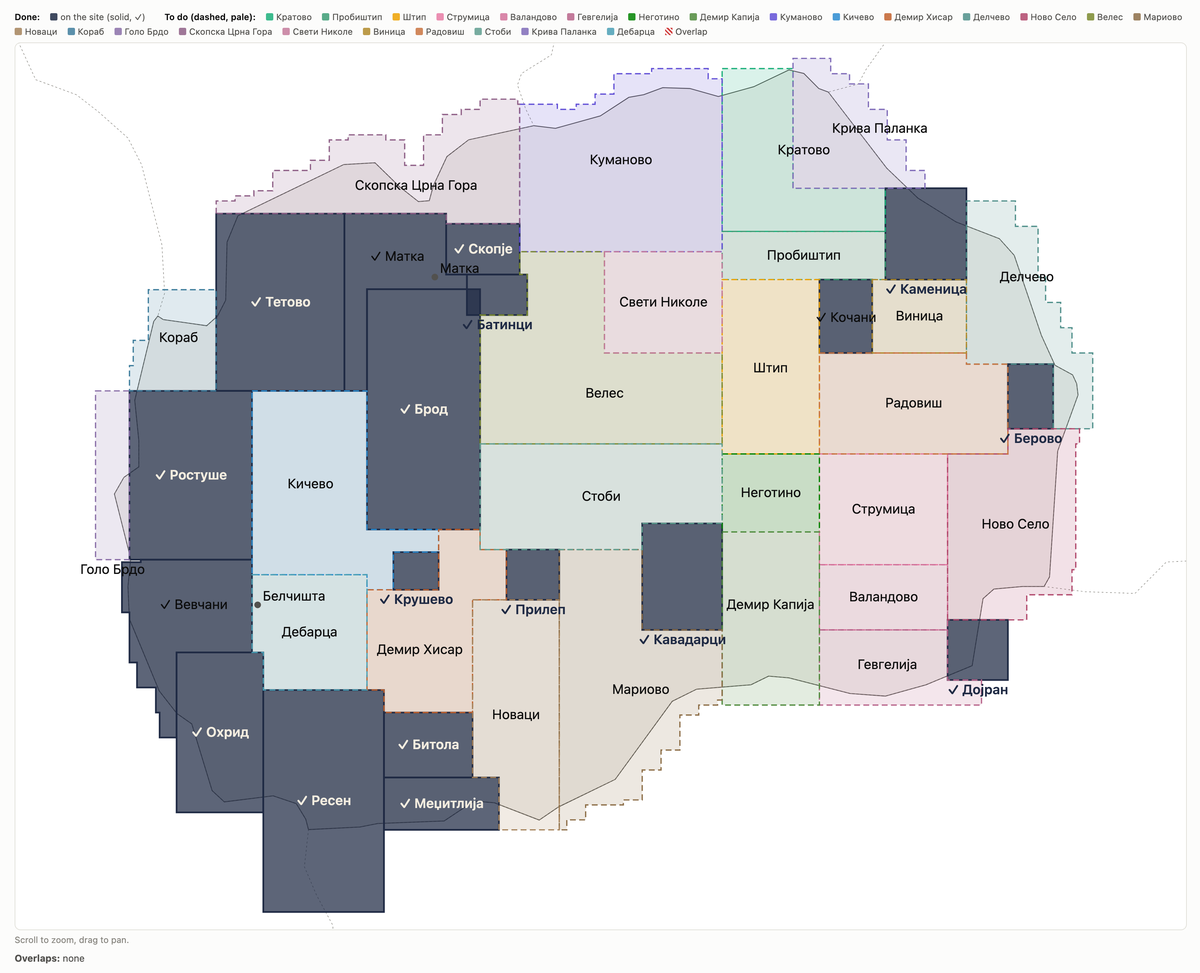
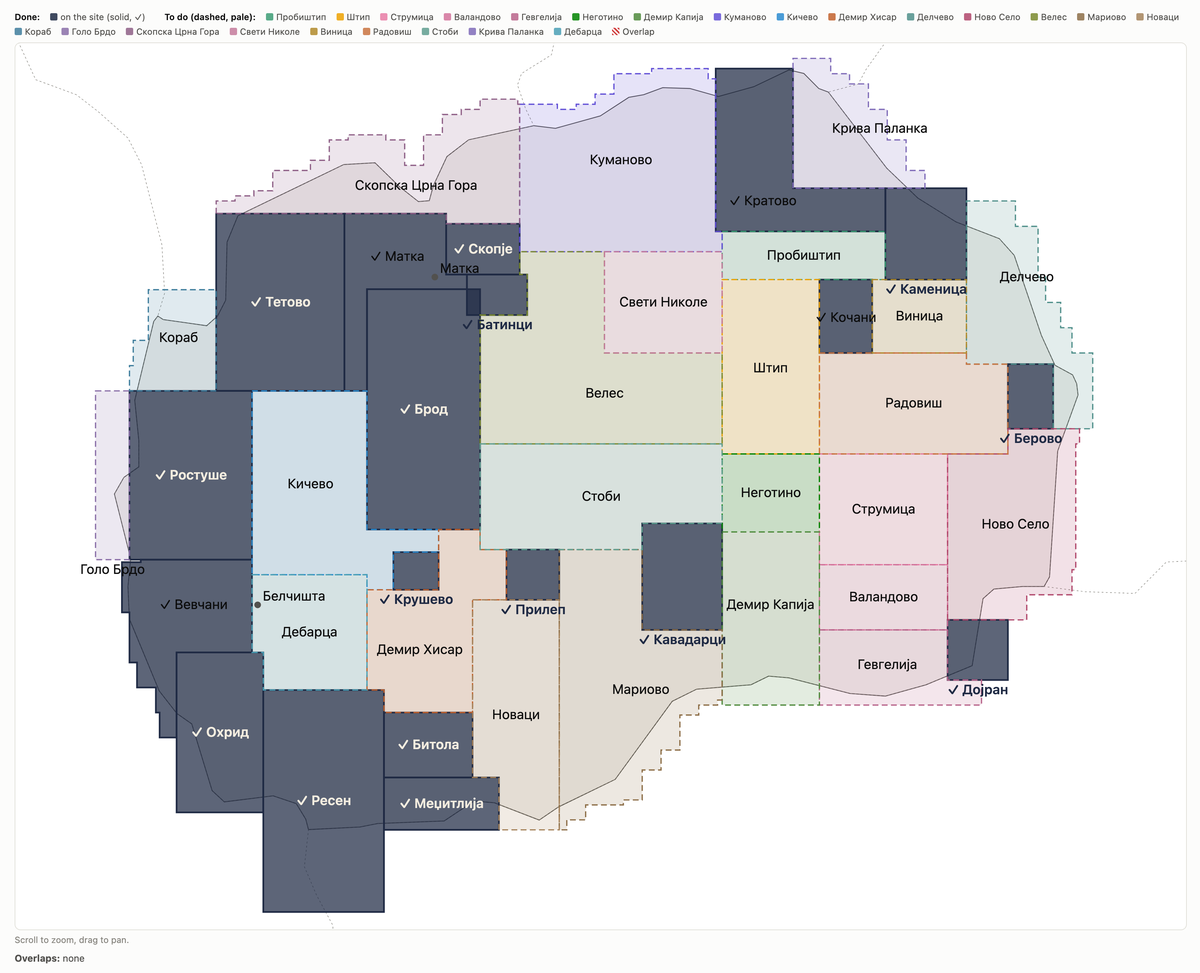
Docs: Кратово built (NOTES item 46, TOWNS_TODO 2 and the build order, CLAUDE.md, README, the plan map)

diff --git a/CLAUDE.md b/CLAUDE.md
@@ -42,7 +42,7 @@ npm run country      # the whole country at 100 m → public/country.png/.json (
 | File | Role |
 |---|---|
 | `main.ts` | App shell: renderer, controls, loading (staged build + progress card), city switching (`loadCity` / `unloadWorld` / `switchCity`), views, time of day, flight/race wiring, popups, help, gamepad, adaptive quality |
-| `cities.ts` | The cities (Skopje, Kavadarci, Bitola, Ohrid, Rostuše, Prilep, Kruševo, Makedonska Kamenica, Dojran, Batinci, Berovo, Tetovo, Makedonski Brod, Resen, Матка, Вевчани, Кочани, Меџитлија) and what differs per city: data files, camera views, district and landmark labels, race route, walking info spots, paragliders, weather / refill labels; `?city=` in the address |
+| `cities.ts` | The cities (Skopje, Kavadarci, Bitola, Ohrid, Rostuše, Prilep, Kruševo, Makedonska Kamenica, Dojran, Batinci, Berovo, Tetovo, Makedonski Brod, Resen, Матка, Вевчани, Кочани, Меџитлија, Кратово) and what differs per city: data files, camera views, district and landmark labels, race route, walking info spots, paragliders, weather / refill labels; `?city=` in the address |
 | `city.ts` | `computeCitySteps` (generator; OSM+terrain → typed arrays per 1 km chunk) and `assembleCity` (meshes, materials, 3-level LOD, far-ground texture bake). Facade shader (windows, shutters, awnings, cornices, night glow), roof tiles, parapets, trees, parked cars, sheds; Kavadarci's vineyards and Bitola's fields, Кочани's rice paddies (`rice`) (`farmMask`, `VINE_GROUND`: farmland marked by one terrain colour, plots painted by the ground shader; `vineShare` per city: the share of plots that are vineyards) |
 | `terrain.ts` | Heightfield with exact mesh-matching interpolation; chunk/low-res meshes; triangle clipping for draping |
 | `post.ts` | `InkRenderer`: colour + normal/depth passes (one pass in the low tier or with smooth edges off: normals as a second attachment) → composite (ink lines, pairwise AO, cloud shadows, grade, haze) → temporal accumulation of jittered frames (supersampled AA) → output |
@@ -76,6 +76,7 @@ npm run country      # the whole country at 100 m → public/country.png/.json (
 | `vevcani.ts` | Вевчани (after photos): Св. Никола (basilica, bell tower, annex), wooden footbridges below the springs |
 | `kocani.ts` | Кочани (after photos): the two Ottoman towers (Средновековна кула with its balcony and stair, the ruined Саат-кула with the clock's brick drum), Споменик на слободата (curved wall, drawn mosaics on a `CanvasTexture`, pylons) |
 | `medzitlija.ts` | Меџитлија (after photos and the aerial image): the village mosque (copper domes, porch, minaret), the border crossing's two canopies (Macedonian and Greek side, `modelRects`), Велушки манастир (church Св. Ѓорѓи with its bell tower, the konak with the gate and the court gallery) |
+| `kratovo.ts` | Кратово (after descriptions on mk Wikipedia): the six medieval towers on their OSM outlines (stone, quoins, slab hip roofs; the Саат-кула's чардак), the stone bridges on OSM's `man_made=bridge` outlines (one arch, humped deck, parapets), the earth pyramids of Куклица (seeded inside the site's outline) |
 | `dojran.ts` | Dojran (after photos): the clock tower, Св. Илија (a basilica), a мандра (reed fishing enclosure, hut on stilts, walkway to the beach) |
 | `bitola.ts` | Bitola (after photos): Саат-кула, Ајдар-кади џамија, Безистен, Св. Димитриј and its bell tower, Хераклеа's theatre and Great Basilica with its mosaic floors (painted canvases), built on their OSM outlines (`models` in `PREP`, `landmarks.models` in the data; the generic buildings left out); walking collision |
 | `river.ts` | Kavadarci, the Луда Мара (after photos): the stone-lined channel through the town between two promenades, cut exactly out of the terrain and draped ground (`cut`), its water, banks and promenades emitted into the draped ground; copings, railing, arched footbridges, road-bridge parapets, cascades, steps, benches, lamps, promenade trees; walking height and collision |
@@ -86,7 +87,8 @@ npm run country      # the whole country at 100 m → public/country.png/.json (
 | `i18n-towns2.ts` | UI texts of Tetovo, Makedonski Brod and Resen, spread into `STR` after `TOWNS` |
 | `i18n-towns3.ts` | UI texts of Матка and Вевчани, spread into `STR` after `TOWNS2` |
 | `i18n-towns4.ts` | UI texts of Кочани and Меџитлија, spread into `STR` after `TOWNS3` |
-| `i18n-country.ts` | UI texts of the country view, spread into `STR` after `TOWNS4` |
+| `i18n-towns5.ts` | UI texts of Кратово, spread into `STR` after `TOWNS4` |
+| `i18n-country.ts` | UI texts of the country view, spread into `STR` after `TOWNS5` |
 | `country.ts` | Country view (Macedonia, first in the city menu): all of Macedonia at 100 m from `public/country.png` (heights, land cover, border), its own scene / camera / controls drawn through the same ink renderer (`renderCountry()` in `main.ts`), zones as a canvas overlay, hover, picking by marching the height grid, badges that open a city; the data is loaded once and kept for the visit (`loadCountry`, meant for the F-15 too) |
 | `countryground.ts` | The country's 100 m terrain around a city map while the F-15 flies: one CPU-built grid following the plane (fine near, ~0.7 km cells at 45 km), sunk below the map inside it, the map's own exaggeration; the flight and the rockets use its height beyond the map's edges. While it shows, the ink's normal pass is not clipped to the map (`ink.setClipping`) |
 | `hop.ts` | The F-15 from map to map: `mapAt` / `inMap` (the finished maps' outlines from `zones.ts`), `lookAhead` (the map the plane would enter along a heading), `createPrefetch` (raw files of up to 3 maps ahead, 80 MB; phones 1, 20 MB; one low-priority download at a time). `main.ts` predicts once a second, opens the edge where a map lies ahead (`flight.setEdgeOpen`), shows `→ Батинци ▓▓░░` and switches at the edge (`hop()`: fade, small loader, `switchCity`, the flight carried over by lat / lon) |
@@ -111,7 +113,7 @@ controls, ink, city, flight); `setView('center'|'kale'|'park'|'vodno'|'overview'
   The city stays built underneath, so Skopje is pixel-identical after closing it (checked).
 - The badge at the top left (`091 Скопје ▾`) is the city picker (the tab icon follows: `icon` in `CITIES`,
   `public/favicon-<id>.svg`). The LinkedIn button at the top right names the city's developer (one `.me-main`
-  per city, `data-city`) and shows only on the map itself, not while flying, driving or walking.
+  per city, `data-city`; the ▼ menu lists the three developers: Бојан 091, Ристе 043, Бранко 031) and shows only on the map itself, not while flying, driving or walking.
   The round `?` right after the badge opens the help
   (shared by every city; per-city paragraphs carry `data-city="…"`, hidden by the `city-<id>` body class).
 - Cities: 091 Скопје, 043 Кавадарци (`?city=kavadarci`), 097 Битола (`?city=bitola`, v2.10.0), 096 Охрид
@@ -126,7 +128,8 @@ controls, ink, city, flight); `setView('center'|'kale'|'park'|'vodno'|'overview'
   cut out of it), 0903 Кочани (`?city=kocani`, branch `city-kocani`, not yet released: Кочанско Поле's rice paddies, `rice` in
   `CITIES` → `RICE_GROUND` in `city.ts`, compiled only into a city with rice), 047 Меџитлија (`?city=medzitlija`, branch
   `city-medzitlija`, not yet released: southern Пелагонија to the Greek border, widened east to 21.47 so that Меџитлија is on it;
-  Новаци's planned box cut there).
+  Новаци's planned box cut there), 031 Кратово (`?city=kratovo`, branch `city-kratovo`, not yet released, developer Бранко Славков:
+  an L, Крива Паланка's planned corner cut; widened west to 22.045 for the Камени Кукли, Куманово's planned outline moved there).
 - The F-15 (v26.0.0) flies from map to map: the next map downloaded ahead, switched at the edge while the jet flies on
   over the country's terrain (`src/hop.ts`, `src/countryground.ts`, `transit` in `main.ts`); every new finished map
   in `src/zones.ts` widens the flight. All of it: "F-15 and flying from map to map" in docs/NOTES.md.

diff --git a/README.md b/README.md
@@ -8,7 +8,7 @@ An illustrated, living 3D map of Skopje — from Gjorče Petrov to Gazi Baba and
 
 Илустрирана, жива 3Д мапа на Скопје, нацртана од отворените податоци на OpenStreetMap.
 
-More towns — **043 Кавадарци** (Kavadarci, the centre of the Tikveš wine region), **097 Битола** (Bitola, the city of consuls under Pelister) **096 Охрид** (Ohrid and Struga with the whole of Lake Ohrid) **098 Прилеп** (Prilep under Markovi Kuli) **048 Крушево** (Kruševo, the town of the Ilinden Uprising) **033 Македонска Каменица** (Makedonska Kamenica, the miners' town under Osogovo) **034 Дојран** (Dojran and the whole of Lake Dojran) **02 Батинци** (Batinci and its surroundings south of Skopje, to Marko's Monastery) **033 Берово** (Berovo, Pehčevo and the whole of Berovo Lake) **094 Тетово** (Tetovo, Gostivar and the Šar Mountains) **045 Македонски Брод** (Makedonski Brod, Lake Kozjak and the Treska) **047 Ресен** (Resen and the whole of Lake Prespa) **02 Матка** (the Matka Canyon and the land west of Skopje) **046 Вевчани** (Vevčani and Drimkol under Jablanica) **0903 Кочани** (Kočani and the rice fields of its plain) and **047 Меџитлија** (southern Pelagonia at the Greek border) — are chosen from the badge at the top left or opened directly with `?city=`: https://bbojan.github.io/091-skopje/?city=kavadarci, https://bbojan.github.io/091-skopje/?city=bitola, https://bbojan.github.io/091-skopje/?city=ohrid, https://bbojan.github.io/091-skopje/?city=rostuse, https://bbojan.github.io/091-skopje/?city=prilep, https://bbojan.github.io/091-skopje/?city=krusevo, https://bbojan.github.io/091-skopje/?city=kamenica, https://bbojan.github.io/091-skopje/?city=dojran, https://bbojan.github.io/091-skopje/?city=batinci, https://bbojan.github.io/091-skopje/?city=berovo, https://bbojan.github.io/091-skopje/?city=tetovo, https://bbojan.github.io/091-skopje/?city=brod, https://bbojan.github.io/091-skopje/?city=resen, https://bbojan.github.io/091-skopje/?city=matka, https://bbojan.github.io/091-skopje/?city=vevcani, https://bbojan.github.io/091-skopje/?city=kocani, https://bbojan.github.io/091-skopje/?city=medzitlija
+More towns — **043 Кавадарци** (Kavadarci, the centre of the Tikveš wine region), **097 Битола** (Bitola, the city of consuls under Pelister) **096 Охрид** (Ohrid and Struga with the whole of Lake Ohrid) **098 Прилеп** (Prilep under Markovi Kuli) **048 Крушево** (Kruševo, the town of the Ilinden Uprising) **033 Македонска Каменица** (Makedonska Kamenica, the miners' town under Osogovo) **034 Дојран** (Dojran and the whole of Lake Dojran) **02 Батинци** (Batinci and its surroundings south of Skopje, to Marko's Monastery) **033 Берово** (Berovo, Pehčevo and the whole of Berovo Lake) **094 Тетово** (Tetovo, Gostivar and the Šar Mountains) **045 Македонски Брод** (Makedonski Brod, Lake Kozjak and the Treska) **047 Ресен** (Resen and the whole of Lake Prespa) **02 Матка** (the Matka Canyon and the land west of Skopje) **046 Вевчани** (Vevčani and Drimkol under Jablanica) **0903 Кочани** (Kočani and the rice fields of its plain), **047 Меџитлија** (southern Pelagonia at the Greek border) and **031 Кратово** (Kratovo in its volcanic crater, with its towers and stone bridges) — are chosen from the badge at the top left or opened directly with `?city=`: https://bbojan.github.io/091-skopje/?city=kavadarci, https://bbojan.github.io/091-skopje/?city=bitola, https://bbojan.github.io/091-skopje/?city=ohrid, https://bbojan.github.io/091-skopje/?city=rostuse, https://bbojan.github.io/091-skopje/?city=prilep, https://bbojan.github.io/091-skopje/?city=krusevo, https://bbojan.github.io/091-skopje/?city=kamenica, https://bbojan.github.io/091-skopje/?city=dojran, https://bbojan.github.io/091-skopje/?city=batinci, https://bbojan.github.io/091-skopje/?city=berovo, https://bbojan.github.io/091-skopje/?city=tetovo, https://bbojan.github.io/091-skopje/?city=brod, https://bbojan.github.io/091-skopje/?city=resen, https://bbojan.github.io/091-skopje/?city=matka, https://bbojan.github.io/091-skopje/?city=vevcani, https://bbojan.github.io/091-skopje/?city=kocani, https://bbojan.github.io/091-skopje/?city=medzitlija, https://bbojan.github.io/091-skopje/?city=kratovo
 
 ## Features
 
@@ -105,6 +105,11 @@ More towns — **043 Кавадарци** (Kavadarci, the centre of the Tikveš 
 - Hand-built after photos and the aerial image: the mosque of Medžitlija, the canopies of the border crossing (both sides), the Velušina monastery (church, bell tower, konak)
 - Its own places, labels, race route (13 rings), walking info cards; firefighting refills from the fish ponds by Žabeni; no ЈСП buses
 
+**Kratovo** (`?city=kratovo`, built by Branko Slavkov)
+- Kratovo in the crater of an extinct volcano, the Kratovo river, Kneževo lake on the Zletovica, the stone dolls of Kuklica, the villages of Slavište with Rankovce and Petralica up to the Serbian border, on real terrain
+- Hand-built after descriptions: the six medieval towers (Simić's, the clock tower, Zlatkovič's, Krste's, Hadži-Kosta's, Emin-bey's), the stone bridges (Rada's, Grofčanski, Čaršijski, Jokširski and three more), the earth pyramids of Kuklica
+- Its own places, labels, race route (13 rings), walking info cards; firefighting refills from Kneževo lake; no ЈСП buses
+
 **Time, weather and seasons**
 - Day, sunset and night (lit windows, street lamps, headlights), drifting clouds, birds, paragliders over Vodno, flowing river
 - Weather: clear, rain (wet streets, puddles, umbrellas), snow, or snow only on Vodno
@@ -172,6 +177,7 @@ npm run download -- matka && npm run overture -- matka && npm run terrain -- mat
 npm run download -- vevcani && npm run overture -- vevcani && npm run terrain -- vevcani && npm run data -- vevcani
 npm run download -- kocani && npm run terrain -- kocani && npm run data -- kocani   # Overture adds nothing here
 npm run download -- medzitlija && npm run overture -- medzitlija && npm run terrain -- medzitlija && npm run data -- medzitlija
+npm run download -- kratovo && npm run terrain -- kratovo && npm run data -- kratovo   # Overture adds nothing here
                    # when Overpass is down: scripts/pbf2overpass.py writes data/<city>_raw.json from Geofabrik extracts
 ```
 

diff --git a/docs/NOTES.md b/docs/NOTES.md
@@ -697,6 +697,34 @@ day/night) and fun (airplane, ring race). Tagline: „Го добивме 091 С
    script's `frames()` and the 1.7 s waits replaced by pumped frames, `img.decode()` by `onload` (with timer frames at 1–2
    FPS the same code compared against itself differed on every pixel; pumped, it matches). Not checked: flying in from
    Ресен, phones, firefighting and the race, night and snow views, the walking cards one by one.
+46. **031 Кратово** (Nov 2026, branch `city-kratovo`, not yet released; built out of order, 16th in the build order; the
+   first map by the third developer, **Бранко Славков**, `linkedin.com/in/slavkovbranko`): the town in its volcanic crater and
+   its surroundings (docs/TOWNS_TODO.md, 2): box 42.04–42.36 N, 22.045–22.495 E (35.6 × 37.1 km, 20 m cells, 383–2076 m), an
+   L: Крива Паланка's planned corner (42.125–42.36 N, 22.25–22.495 E) is `cut`. **Widened west from 22.062 to 22.045** so
+   that the Камени Кукли (22.055) are on it; Куманово's planned outline moved with it. Overpass was at capacity all morning
+   (no tile in 15 minutes), so the raw file came from Geofabrik's Macedonia + Serbia extracts (`scripts/pbf2overpass.py`):
+   5,556 buildings, 2,961 roads before the cut (a count query never got through, so not cross-checked against Overpass).
+   **Overture adds nothing** here (0 outlines; 6,428 of its outlines are OSM's own), so no Overture credit. Scene: 2,630
+   buildings after the cut, 2.3 MB; the old town as an `old` box, no height zones (a `mid` zone over the centre made the old
+   town 6-storey blocks), `maxLevels: 5`, the three churches pinned low. Farmland painted on Славиште's plain (`vineyards: 200`,
+   `vineShare: 0.05`). Refilling over Кнежевско Езеро (69 ha). Models (`src/kratovo.ts`, after mk Wikipedia's descriptions,
+   no photos looked at): **the six towers** on OSM's outlines (narrowed to the published widths where Wikipedia gives them:
+   Симиќева 7.9 m and 22 m with its two chimneys, Златковичева 14.15 m, Крстева 16.1 m; Хаџикостова 14 m and Емин-бегова 13 m
+   guessed; the Саат-кула 15.5 m guessed, its чардак placed on the south side by guess), **seven stone bridges** on OSM's
+   `man_made=bridge` outlines (one arch, a humped deck kept ~4 m over the river since the 20 m terrain hardly cuts it,
+   parapets with copings; Нов Мост, the modern one, left out; Радин мост's towers not modelled), **the earth pyramids of
+   Куклица** (15 large up to 10 m, ~80 small up to 5 m with twins at the foot, seeded inside OSM's site outline, not at
+   their real places). Badge 031 (shared with Крива Паланка, the Badge codes table); tow banners „Кратово е спасено!“ /
+   „Поздрав од кратерот!“; snow label „Снег на Осогово“ (Каменица's). The developers' ▼ menu now lists three (031 Бранко
+   Славков), the LinkedIn button on this map names him, and the help footer credits him in all six languages (Slovene
+   „Izdelala“ → „Izdelali“ for three). Checked: typecheck, build (the files in `dist/`), the map loads with no console
+   errors, the views (towers, bridges, Радин мост, Камени Кукли, the square, the lake, the overview), switching Кратово →
+   Скопје → Кратово → Кочани → Кратово (textures 1377 → 1377, scene objects 21 → 21, geometries +2 per return: streamed
+   ground), the F-15 over the map (country vs map heights: mean 0, −8…+39 m on Осогово's slopes), Skopje pixel check (0 on
+   six views, 12–13 pixels on the three overviews: the gondola cabins), screenshots with `scripts/browser/shot-sink.ts`
+   (the pane gave no screenshot frames). Seen: white spikes of draped road along Кнежевско Езеро's steep shore (`waterPad`
+   on 20 m cells, as in Матка). Not checked: flying in from Каменица or Кочани, phones, firefighting and the race, night and
+   snow views, the walking cards one by one, the towers and bridges against photos.
 
 ## Country view (Nov 2026)
 
@@ -969,6 +997,7 @@ All saved settings are `localStorage` keys starting with `skopje.`, read once at
 | Best race time in Вевчани | `skopje.bestRace.vevcani` | none |
 | Best race time in Кочани | `skopje.bestRace.kocani` | none |
 | Best race time in Меџитлија | `skopje.bestRace.medzitlija` | none |
+| Best race time in Кратово | `skopje.bestRace.kratovo` | none |
 
 The camera is not in storage: it is in the address bar (`#@lat,lon,distance,tilt°,heading°` or
 a view name), so a reload or a shared link restores it; without a hash the map opens on Плоштад.

diff --git a/docs/TOWNS_TODO.md b/docs/TOWNS_TODO.md
@@ -4,7 +4,8 @@
 096 Охрид (with Струга), 098 Прилеп, 048 Крушево, 042 Ростуше (with Дебар and Маврово),
 033 Македонска Каменица (with Саса), 034 Дојран, 02 Батинци, 033 Берово (with Пехчево), 094 Тетово (with Гостивар),
 045 Македонски Брод, 047 Ресен, 02 Матка, 046 Вевчани. **Built, not yet released:** 0903 Кочани (branch `city-kocani`,
-2026-11-24), 047 Меџитлија (branch `city-medzitlija`, 2026-11-24). Details in the first table below.
+2026-11-24), 047 Меџитлија (branch `city-medzitlija`, 2026-11-24), 031 Кратово (branch `city-kratovo`, 2026-11-24, developer
+Бранко Славков). Details in the first table below.
 
 ![Map extents: done (solid, ✓) and to do (dashed)](towns-map.png)
 
@@ -19,7 +20,7 @@ opens through the dev server. With `npm run dev` running:
 "/Applications/Google Chrome.app/Contents/MacOS/Google Chrome" --headless=new --disable-gpu --hide-scrollbars --force-device-scale-factor=2 --window-size=1640,1330 --virtual-time-budget=8000 --screenshot=docs/towns-map.png http://localhost:5173/scripts/towns-map.html
 ```
 
-**To do: 25 new maps** (Кочани and Меџитлија built since), all edge to edge, no overlaps, the whole country covered. Largest first (km², official
+**To do: 24 new maps** (Кочани, Меџитлија and Кратово built since), all edge to edge, no overlaps, the whole country covered. Largest first (km², official
 towns on it):
 
 | Map | ~km² | Towns | | Map | ~km² | Towns |
@@ -37,7 +38,7 @@ towns on it):
 | Демир Капија | 820 | Демир Капија | | Голо Брдо* | 280 | — |
 | Демир Хисар | 810 | Демир Хисар | | ~~Меџитлија*~~ built | 300 | — |
 | Делчево | 770 | Делчево | | ~~Кочани~~ built | 190 | Кочани |
-| Кратово | 750 | Кратово | | | | |
+| ~~Кратово~~ built | 790 | Кратово | | | | |
 
 \* working names. Only Гевгелија holds two towns now (Богданци is next to it). For comparison, the largest finished
 maps are Брод and Ресен (about 1320 km² each); areas include the parts across the borders.
@@ -91,7 +92,7 @@ its own.
 | Батинци ✓ | 091 | 02 | 02 | as now; shares 02 |
 | Скопска Црна Гора | 091 | 02 | 02 | shares 02 |
 | Куманово | **0901** | 031 | **0901** | |
-| Кратово | 0901 | 031 | 031 | shares 031 |
+| Кратово ✓ | 0901 | 031 | 031 | shares 031; built 2026-11-24 |
 | Крива Паланка | 0901 | 031 | 031 | shares 031 |
 | Штип | **092** | 032 | **092** | |
 | Пробиштип | 092 | 032 | 032 | shares 032 |
@@ -172,7 +173,7 @@ bigger than its area suggests (dense villages: Тетово is 1100 km² and 16 
 | 13 | Дебарца | 630 | — | 27 |
 | 14 | Струмица | 690 | Струмица | 4 |
 | 15 | ~~Вевчани~~ built (2026-11-23, out of order) | 690 | — | 12 |
-| 16 | Кратово | 750 | Кратово | 2 |
+| 16 | ~~Кратово~~ built (2026-11-24, branch `city-kratovo`, out of order) | 790 | Кратово | 2 |
 | 17 | Делчево | 770 | Делчево | 13 |
 | 18 | Демир Хисар | 810 | Демир Хисар | 11 |
 | 19 | Штип | 820 | Штип | 3 |
@@ -231,7 +232,12 @@ bigger than its area suggests (dense villages: Тетово is 1100 km² and 16 
   Overture outlines for the Полог villages.
 - **Open:** landmark priorities, the developer for the LinkedIn button.
 
-### 2. Кратово
+### 2. 031 Кратово ✓ built (2026-11-24, branch `city-kratovo`, not yet released; NOTES.md item 46; developer Бранко Славков)
+
+- **Built:** 42.04–42.36 N, **22.045**–22.495 E, Крива Паланка's corner (42.125–42.36 N, 22.25–22.495 E) cut. The plan's w edge
+  (22.062) left the Камени Кукли of Куклица (42.105 N, 22.055 E) 600 m outside: widened to 22.045, Куманово's planned outline
+  moved there (`SHAPES` in `src/zones.ts`: e edge 22.045 from 42.04 N up). The border in OSM runs at 42.30–42.36 N here: the n
+  edge stays 42.36 (up to ~5 km of Serbia west of 22.17, as Куманово's 42.34).
 
 - **On it:** Кратово, Кратовска Река, the crater's hills up to the border.
 - **Code:** open (phone codes 031 / 032). `?city=kratovo`.
